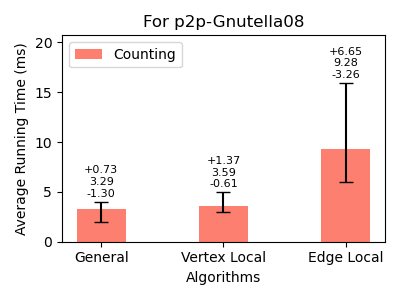
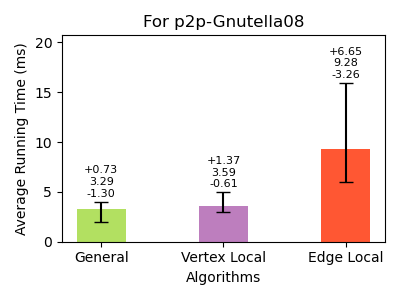
Analysis of clustering coef impact on 4 cycle counting finished

diff --git a/experimentations/plots/4CycleCounting/lowmedhigh/4cycle_web-Stanford.py b/experimentations/plots/4CycleCounting/lowmedhigh/4cycle_web-Stanford.py
@@ -1,43 +1,33 @@
 import os
 import matplotlib.pyplot as plt
 
-counting_times = [885.535, 1377.32, 1559.23]
-listing_times = [3034.29, 4101.19, 3662.31]
-counting_min = [873.663, 1357.37, 1479.04]
-counting_max = [902.62, 1422.23, 1770.3]
-listing_min = [2915.2, 4028.19, 3582.45]
-listing_max = [3205.46, 4234.7, 3897.61]
+counting_times = [528.088, 605.383, 982.775]
+counting_min = [515.654, 596.372, 965.418]
+counting_max = [572.471, 614.372, 1022.27]
 
-inputs = ['NodeIteratorPlusPlus', 'Forward', 'ChibaNishizeki']
+inputs = ['General', 'Vertex Local', 'Edge Local']
+colors = ['#b2e061','#bd7ebe','#ff5733']
 
-bar_width = 0.30
+bar_width = 0.40
 index = range(len(inputs))
 
-fig, ax = plt.subplots(figsize=(5, 4), dpi=100)
+fig, ax = plt.subplots(figsize=(4, 3), dpi=100)
 
-alg1_bars = ax.bar(index, counting_times, bar_width, color="#fd7f6f", label='Counting')
+alg1_bars = ax.bar(index, counting_times, bar_width, color=colors, label='Counting')
 
 for i, (v, vmin, vmax) in enumerate(zip(counting_times, counting_min, counting_max)):
     ax.errorbar(i, v, yerr=[[v - vmin], [vmax - v]], fmt='', color='black', markersize=5, capsize=5)
 
-alg2_bars = ax.bar([i + bar_width for i in index], listing_times, bar_width, color="#7eb0d5", label='Listing')
-
-for i, (v, vmin, vmax) in enumerate(zip(listing_times, listing_min, listing_max)):
-    ax.errorbar(i + bar_width, v, yerr=[[v - vmin], [vmax - v]], fmt='', color='black', markersize=5, capsize=5)
 
 ax.set_ylabel('Average Running Time (ms)')
 ax.set_xlabel('Algorithms')
-ax.set_xticks([i + bar_width / 2 for i in index])
+ax.set_xticks([i for i in index])
 ax.set_xticklabels(inputs)
-#set legend to the upper left
-ax.legend(loc='upper left')
 
 for i, (v, vmin, vmax) in enumerate(zip(counting_times, counting_min, counting_max)):
-    ax.text(i, vmax + 100, f'+{vmax-v:.2f}\n{v:.2f}\n-{v-vmin:.2f}', ha='center', fontsize=8)
-for i, (v, vmin, vmax) in enumerate(zip(listing_times, listing_min, listing_max)):
-    ax.text(i + bar_width, vmax + 100, f'+{vmax-v:.2f}\n{v:.2f}\n-{v-vmin:.2f}', ha='center', fontsize=8)
+    ax.text(i, vmax + 50, f'+{vmax-v:.2f}\n{v:.2f}\n-{v-vmin:.2f}', ha='center', fontsize=8)
 
-ax.set_ylim(top=max(counting_max + listing_max) * 1.2)
+ax.set_ylim(top=max(counting_max) * 1.3)
 
 plt.title('For web-Stanford')
 plt.tight_layout()

diff --git a/experimentations/plots/4CycleCounting/lowmedhigh/4cycle_web-BerkStan.py b/experimentations/plots/4CycleCounting/lowmedhigh/4cycle_web-BerkStan.py
@@ -1,43 +1,32 @@
 import os
 import matplotlib.pyplot as plt
 
-counting_times = [3171.38, 4111.9, 5258.2]
-listing_times = [15444, 20527.7, 19023.1]
-counting_min = [3134.62, 4039.23, 4849.03]
-counting_max = [3232.95, 4177.83, 5672.83]
-listing_min = [15149.5, 19018.8, 17743.1]
-listing_max = [15733.9, 21566, 19748.8]
+counting_times = [1544.67, 1848.45, 2943.64]
+counting_min = [1530.91, 1831.1, 2904.27]
+counting_max = [1557.85, 1877.98, 2997.98]
 
-inputs = ['NodeIteratorPlusPlus', 'Forward', 'ChibaNishizeki']
+inputs = ['General', 'Vertex Local', 'Edge Local']
+colors = ['#b2e061','#bd7ebe','#ff5733']
 
-bar_width = 0.30
+bar_width = 0.40
 index = range(len(inputs))
 
-fig, ax = plt.subplots(figsize=(5, 4), dpi=100)
+fig, ax = plt.subplots(figsize=(4, 3), dpi=100)
 
-alg1_bars = ax.bar(index, counting_times, bar_width, color="#fd7f6f", label='Counting')
+alg1_bars = ax.bar(index, counting_times, bar_width, color=colors, label='Counting')
 
 for i, (v, vmin, vmax) in enumerate(zip(counting_times, counting_min, counting_max)):
     ax.errorbar(i, v, yerr=[[v - vmin], [vmax - v]], fmt='', color='black', markersize=5, capsize=5)
 
-alg2_bars = ax.bar([i + bar_width for i in index], listing_times, bar_width, color="#7eb0d5", label='Listing')
-
-for i, (v, vmin, vmax) in enumerate(zip(listing_times, listing_min, listing_max)):
-    ax.errorbar(i + bar_width, v, yerr=[[v - vmin], [vmax - v]], fmt='', color='black', markersize=5, capsize=5)
-
 ax.set_ylabel('Average Running Time (ms)')
 ax.set_xlabel('Algorithms')
-ax.set_xticks([i + bar_width / 2 for i in index])
+ax.set_xticks([i for i in index])
 ax.set_xticklabels(inputs)
-#set legend to the upper left
-ax.legend(loc='upper left')
 
 for i, (v, vmin, vmax) in enumerate(zip(counting_times, counting_min, counting_max)):
-    ax.text(i, vmax + 500, f'+{vmax-v:.2f}\n{v:.1f}\n-{v-vmin:.2f}', ha='center', fontsize=8)
-for i, (v, vmin, vmax) in enumerate(zip(listing_times, listing_min, listing_max)):
-    ax.text(i + bar_width, vmax + 500, f'+{vmax-v:.1f}\n{v:.2f}\n-{v-vmin:.2f}', ha='center', fontsize=8)
+    ax.text(i, vmax + 100, f'+{vmax-v:.2f}\n{v:.1f}\n-{v-vmin:.2f}', ha='center', fontsize=8)
 
-ax.set_ylim(top=max(counting_max + listing_max) * 1.2)
+ax.set_ylim(top=max(counting_max ) * 1.3)
 
 plt.title('For web-BerkStan')
 plt.tight_layout()

diff --git a/experimentations/plots/4CycleCounting/lowmedhigh/4cycle_web-NotreDame.py b/experimentations/plots/4CycleCounting/lowmedhigh/4cycle_web-NotreDame.py
@@ -1,42 +1,32 @@
 import os
 import matplotlib.pyplot as plt
 
-counting_times = [293.515, 526.802, 603.788]
-listing_times = [1893.1, 2551.08, 2152.64]
-counting_min = [290.19, 519.607, 588.328]
-counting_max = [303.233, 552.555, 636.265]
-listing_min = [1808.16, 2430.46, 2127.31]
-listing_max = [2288.91, 2823.48, 2251.98]
+counting_times = [214.928, 249.237, 425.365]
+counting_min = [206.415, 241.323, 418.913]
+counting_max = [227.393, 268.276, 433.87]
 
-inputs = ['NodeIteratorPlusPlus', 'Forward', 'ChibaNishizeki']
+inputs = ['General', 'Vertex Local', 'Edge Local']
+colors = ['#b2e061','#bd7ebe','#ff5733']
 
-bar_width = 0.30
+bar_width = 0.40
 index = range(len(inputs))
 
-fig, ax = plt.subplots(figsize=(5, 4), dpi=100)
+fig, ax = plt.subplots(figsize=(4, 3), dpi=100)
 
-alg1_bars = ax.bar(index, counting_times, bar_width, color="#fd7f6f", label='Counting')
+alg1_bars = ax.bar(index, counting_times, bar_width, color=colors, label='Counting')
 
 for i, (v, vmin, vmax) in enumerate(zip(counting_times, counting_min, counting_max)):
     ax.errorbar(i, v, yerr=[[v - vmin], [vmax - v]], fmt='', color='black', markersize=5, capsize=5)
 
-alg2_bars = ax.bar([i + bar_width for i in index], listing_times, bar_width, color="#7eb0d5", label='Listing')
-
-for i, (v, vmin, vmax) in enumerate(zip(listing_times, listing_min, listing_max)):
-    ax.errorbar(i + bar_width, v, yerr=[[v - vmin], [vmax - v]], fmt='', color='black', markersize=5, capsize=5)
-
 ax.set_ylabel('Average Running Time (ms)')
 ax.set_xlabel('Algorithms')
-ax.set_xticks([i + bar_width / 2 for i in index])
+ax.set_xticks([i for i in index])
 ax.set_xticklabels(inputs)
-ax.legend()
 
 for i, (v, vmin, vmax) in enumerate(zip(counting_times, counting_min, counting_max)):
     ax.text(i, vmax + 20, f'+{vmax-v:.2f}\n{v:.2f}\n-{v-vmin:.2f}', ha='center', fontsize=8)
-for i, (v, vmin, vmax) in enumerate(zip(listing_times, listing_min, listing_max)):
-    ax.text(i + bar_width, vmax + 20, f'+{vmax-v:.2f}\n{v:.2f}\n-{v-vmin:.2f}', ha='center', fontsize=8)
 
-ax.set_ylim(top=max(counting_max + listing_max) * 1.2)
+ax.set_ylim(top=max(counting_max) * 1.3)
 
 plt.title('For web-NotreDame')
 plt.tight_layout()

diff --git a/experimentations/plots/4CycleCounting/lowmedhigh/4cycle_WikiTalk.py b/experimentations/plots/4CycleCounting/lowmedhigh/4cycle_WikiTalk.py
@@ -1,42 +1,32 @@
 import os
 import matplotlib.pyplot as plt
 
-counting_times = [7261.44, 20149, 7203.49]
-listing_times = [9227.06, 22759.3, 8972.96]
-counting_min = [7232.65, 19968.1, 7163.84]
-counting_max = [7294.49, 20279.8, 7254.6]
-listing_min = [9158.53, 22422, 8382.56]
-listing_max = [9277.33, 23558.6, 9910.53]
+counting_times = [7320.04, 11331.2, 11159.9]
+counting_min = [7237.64, 11283.8, 11102.3]
+counting_max = [7793.19, 11370.6, 11219.1]
 
-inputs = ['NodeIteratorPlusPlus', 'Forward', 'ChibaNishizeki']
+inputs = ['General', 'Vertex Local', 'Edge Local']
+colors = ['#b2e061','#bd7ebe','#ff5733']
 
-bar_width = 0.30
+bar_width = 0.40
 index = range(len(inputs))
 
-fig, ax = plt.subplots(figsize=(5, 4), dpi=100)
+fig, ax = plt.subplots(figsize=(4, 3), dpi=100)
 
-alg1_bars = ax.bar(index, counting_times, bar_width, color="#fd7f6f", label='Counting')
+alg1_bars = ax.bar(index, counting_times, bar_width, color=colors, label='Counting')
 
 for i, (v, vmin, vmax) in enumerate(zip(counting_times, counting_min, counting_max)):
     ax.errorbar(i, v, yerr=[[v - vmin], [vmax - v]], fmt='', color='black', markersize=5, capsize=5)
 
-alg2_bars = ax.bar([i + bar_width for i in index], listing_times, bar_width, color="#7eb0d5", label='Listing')
-
-for i, (v, vmin, vmax) in enumerate(zip(listing_times, listing_min, listing_max)):
-    ax.errorbar(i + bar_width, v, yerr=[[v - vmin], [vmax - v]], fmt='', color='black', markersize=5, capsize=5)
-
 ax.set_ylabel('Average Running Time (ms)')
 ax.set_xlabel('Algorithms')
-ax.set_xticks([i + bar_width / 2 for i in index])
+ax.set_xticks([i for i in index])
 ax.set_xticklabels(inputs)
-ax.legend()
 
 for i, (v, vmin, vmax) in enumerate(zip(counting_times, counting_min, counting_max)):
     ax.text(i, vmax + 500, f'+{vmax-v:.2f}\n{v:.1f}\n-{v-vmin:.2f}', ha='center', fontsize=8)
-for i, (v, vmin, vmax) in enumerate(zip(listing_times, listing_min, listing_max)):
-    ax.text(i + bar_width, vmax + 500, f'+{vmax-v:.2f}\n{v:.1f}\n-{v-vmin:.2f}', ha='center', fontsize=8)
 
-ax.set_ylim(top=max(counting_max + listing_max) * 1.2)
+ax.set_ylim(top=max(counting_max) * 1.3)
 
 plt.title('For WikiTalk')
 plt.tight_layout()

diff --git a/experimentations/plots/4CycleCounting/lowmedhigh/4cycle_com-youtube.py b/experimentations/plots/4CycleCounting/lowmedhigh/4cycle_com-youtube.py
@@ -6,13 +6,14 @@ counting_min = [1590.75, 2225.05, 2909.22]
 counting_max = [1798.23, 2263.98, 3024.91]
 
 inputs = ['General', 'Vertex Local', 'Edge Local']
+colors = ['#b2e061','#bd7ebe','#ff5733']
 
 bar_width = 0.40
 index = range(len(inputs))
 
 fig, ax = plt.subplots(figsize=(4, 3), dpi=100)
 
-alg1_bars = ax.bar(index, counting_times, bar_width, color="#fd7f6f", label='Counting')
+alg1_bars = ax.bar(index, counting_times, bar_width, color=colors, label='Counting')
 
 for i, (v, vmin, vmax) in enumerate(zip(counting_times, counting_min, counting_max)):
     ax.errorbar(i, v, yerr=[[v - vmin], [vmax - v]], fmt='', color='black', markersize=5, capsize=5)
@@ -22,7 +23,6 @@ ax.set_ylabel('Average Running Time (ms)')
 ax.set_xlabel('Algorithms')
 ax.set_xticks([i for i in index])
 ax.set_xticklabels(inputs)
-ax.legend(loc='upper left')
 
 for i, (v, vmin, vmax) in enumerate(zip(counting_times, counting_min, counting_max)):
     ax.text(i, vmax + 100, f'+{vmax-v:.2f}\n{v:.2f}\n-{v-vmin:.2f}', ha='center', fontsize=8)

diff --git a/experimentations/plots/4CycleCounting/lowmedhigh/4cycle_soc-Slashdot0811.py b/experimentations/plots/4CycleCounting/lowmedhigh/4cycle_soc-Slashdot0811.py
@@ -6,13 +6,14 @@ counting_min = [280.216, 352.058, 466.751]
 counting_max = [399.932, 432.844, 573.458]
 
 inputs = ['General', 'Vertex Local', 'Edge Local']
+colors = ['#b2e061','#bd7ebe','#ff5733']
 
 bar_width = 0.40
 index = range(len(inputs))
 
 fig, ax = plt.subplots(figsize=(4, 3), dpi=100)
 
-alg1_bars = ax.bar(index, counting_times, bar_width, color="#fd7f6f", label='Counting')
+alg1_bars = ax.bar(index, counting_times, bar_width, color=colors, label='Counting')
 
 for i, (v, vmin, vmax) in enumerate(zip(counting_times, counting_min, counting_max)):
     ax.errorbar(i, v, yerr=[[v - vmin], [vmax - v]], fmt='', color='black', markersize=5, capsize=5)
@@ -21,7 +22,6 @@ ax.set_ylabel('Average Running Time (ms)')
 ax.set_xlabel('Algorithms')
 ax.set_xticks([i for i in index])
 ax.set_xticklabels(inputs)
-ax.legend(loc='upper left')
 
 for i, (v, vmin, vmax) in enumerate(zip(counting_times, counting_min, counting_max)):
     ax.text(i, vmax + 20, f'+{vmax-v:.2f}\n{v:.2f}\n-{v-vmin:.2f}', ha='center', fontsize=8)

diff --git a/experimentations/plots/4CycleCounting/lowmedhigh/4cycle_roadNet-PA.py b/experimentations/plots/4CycleCounting/lowmedhigh/4cycle_roadNet-PA.py
@@ -6,13 +6,14 @@ counting_min = [124.7, 128.656, 349.066]
 counting_max = [154.624, 142.64, 374.998]
 
 inputs = ['General', 'Vertex Local', 'Edge Local']
+colors = ['#b2e061','#bd7ebe','#ff5733']
 
 bar_width = 0.40
 index = range(len(inputs))
 
 fig, ax = plt.subplots(figsize=(4, 3), dpi=100)
 
-alg1_bars = ax.bar(index, counting_times, bar_width, color="#fd7f6f", label='Counting')
+alg1_bars = ax.bar(index, counting_times, bar_width, color=colors, label='Counting')
 
 for i, (v, vmin, vmax) in enumerate(zip(counting_times, counting_min, counting_max)):
     ax.errorbar(i, v, yerr=[[v - vmin], [vmax - v]], fmt='', color='black', markersize=5, capsize=5)
@@ -21,7 +22,6 @@ ax.set_ylabel('Average Running Time (ms)')
 ax.set_xlabel('Algorithms')
 ax.set_xticks([i for i in index])
 ax.set_xticklabels(inputs)
-ax.legend(loc='upper left')
 
 for i, (v, vmin, vmax) in enumerate(zip(counting_times, counting_min, counting_max)):
     ax.text(i, vmax + 10, f'+{vmax-v:.2f}\n{v:.2f}\n-{v-vmin:.2f}', ha='center', fontsize=8)

diff --git a/experimentations/plots/4CycleCounting/lowmedhigh/4cycle_p2p-Gnutella08.py b/experimentations/plots/4CycleCounting/lowmedhigh/4cycle_p2p-Gnutella08.py
@@ -6,13 +6,14 @@ counting_min = [1.9945, 2.9815, 6.0133]
 counting_max = [4.017, 4.9623, 15.9237]
 
 inputs = ['General', 'Vertex Local', 'Edge Local']
+colors = ['#b2e061','#bd7ebe','#ff5733']
 
 bar_width = 0.40
 index = range(len(inputs))
 
 fig, ax = plt.subplots(figsize=(4, 3), dpi=100)
 
-alg1_bars = ax.bar(index, counting_times, bar_width, color="#fd7f6f", label='Counting')
+alg1_bars = ax.bar(index, counting_times, bar_width, color=colors, label='Counting')
 
 for i, (v, vmin, vmax) in enumerate(zip(counting_times, counting_min, counting_max)):
     ax.errorbar(i, v, yerr=[[v - vmin], [vmax - v]], fmt='', color='black', markersize=5, capsize=5)
@@ -21,7 +22,6 @@ ax.set_ylabel('Average Running Time (ms)')
 ax.set_xlabel('Algorithms')
 ax.set_xticks([i  for i in index])
 ax.set_xticklabels(inputs)
-ax.legend(loc='upper left')
 
 for i, (v, vmin, vmax) in enumerate(zip(counting_times, counting_min, counting_max)):
     ax.text(i, vmax + 0.5, f'+{vmax-v:.2f}\n{v:.2f}\n-{v-vmin:.2f}', ha='center', fontsize=8)
